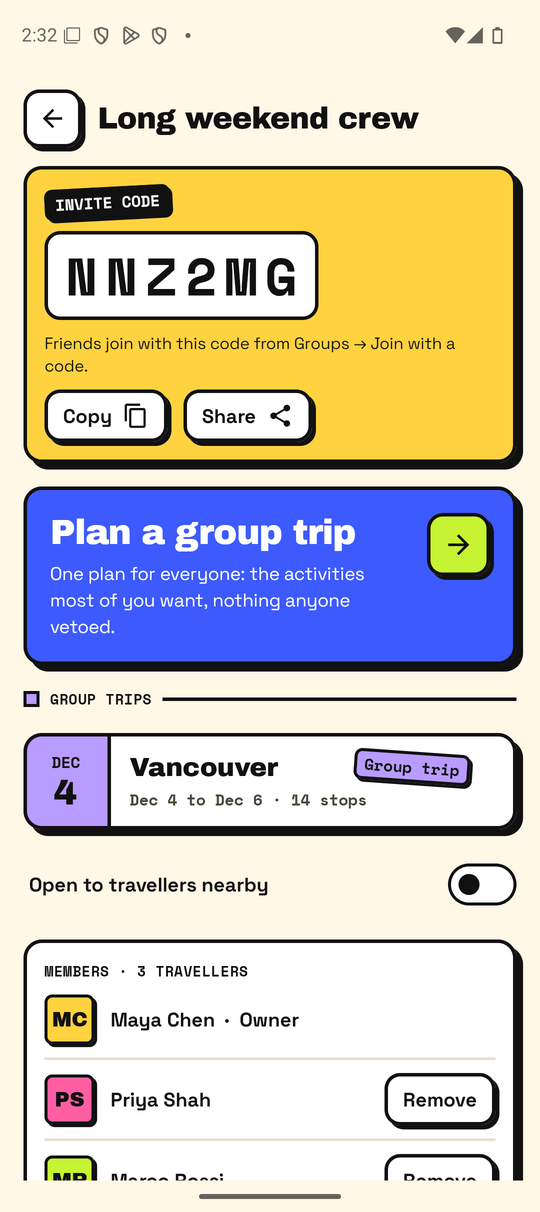
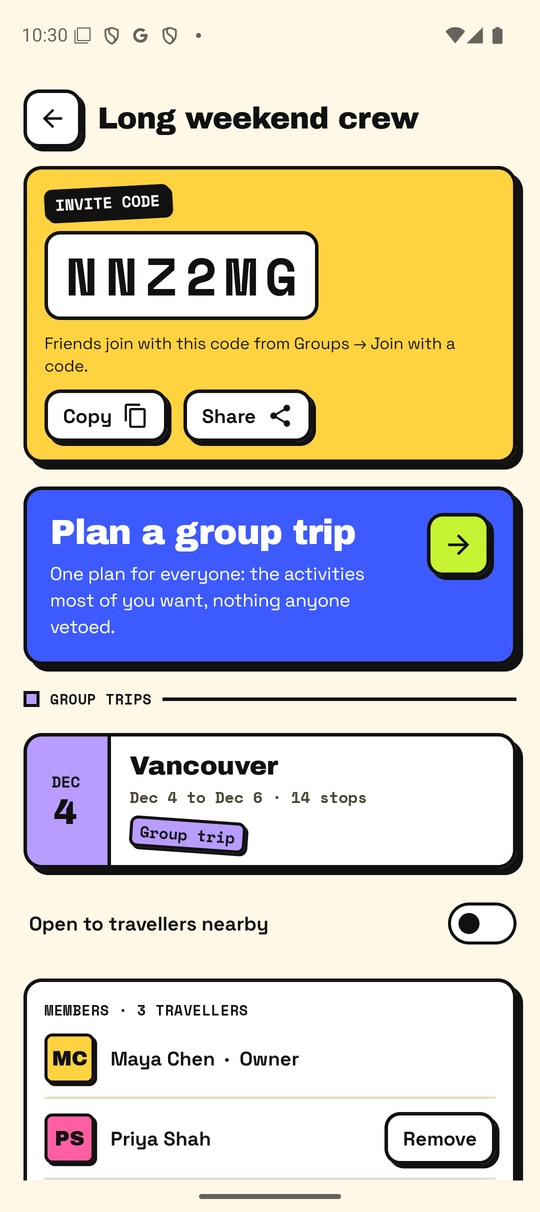
docs: show deleting a trip and how its stops were picked in the screen mock-ups

diff --git a/documentation/Requirements_and_Design.md b/documentation/Requirements_and_Design.md
@@ -33,6 +33,7 @@
 | 2026-11-17 | 3.5 | Tapping Cancel or Decline is a step of the main scenario, not a failure scenario, after CP2 feedback. Plan Trip's places can be searched and are marked with Must-see and Avoid buttons instead of one or two taps, and the trip lists how its stops were picked, after CP2 feedback that the plan looked arbitrary. |
 | 2026-11-17 | 3.7, 4.7 | After CP2 feedback, NFR 2 explains its 2 seconds, and NFR 3 states the cost limit it was written for; caching is how 4.7 meets it. |
 | 2026-11-17 | 3.2, 4.1, 4.4, 4.5, 4.6 | After CP2 feedback that "and" in a component's name mixes concerns, each component is named for one job: the User Service, the Activity Service, and the Trip Sync Service and Disruption Service, split as they are in the code. The dependency diagram shows names only, the use case diagram has larger text, and each sequence diagram shows every failure scenario of its specification. |
+| 2026-11-17 | 3.6 | Retook the Trips, Trip and Group screens to show deleting a trip and how a trip's stops were picked. |
 
 ---
 
@@ -280,7 +281,7 @@ Actions use the same words everywhere: travellers *add* and *remove* friends, pl
 
 Screens from the CP3 build, signed in as a demo traveller:
 
-| Sign in | Trips | Trip Builder | Trip, with a suggestion | Trip map |
+| Sign in | Trips | Trip Builder | Trip | Trip map |
 | --- | --- | --- | --- | --- |
 | <img src="images/screen_sign_in.png" width="150"/> | <img src="images/screen_trips.png" width="150"/> | <img src="images/screen_trip_builder.png" width="150"/> | <img src="images/screen_trip.png" width="150"/> | <img src="images/screen_trip_map.png" width="150"/> |
 
